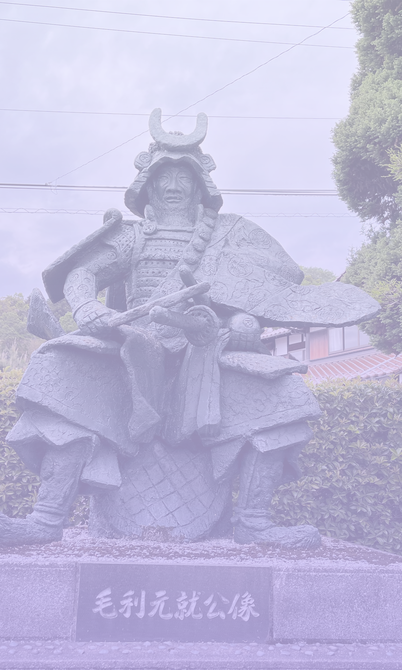
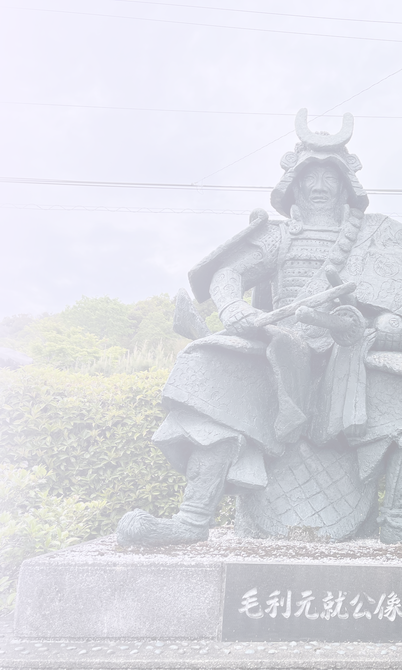
fix: カラーをソフトラベンダーに調整・ヒーロー画像を元就像に差し替え
- primary: #a495d6 / accent: #7a6cc0 (より薄く目に優しいパステルラベンダーに変更)
- グラデーション色も淡いラベンダー系に統一
- ヒーロー画像: 元就像(右下寄り)＋左上→右下への淡いラベンダーグラデーション
- PWAアイコン: ラベンダー→ティール(チームみらい色4:6混合)の対角グラデーション

diff --git a/web/src/app/globals.css b/web/src/app/globals.css
@@ -81,8 +81,8 @@
 
   /* Stance semantic colors */
   --color-stance-for-bg: #ecfcf1;
-  --color-stance-for-badge-start: #ede9fe;
-  --color-stance-for-badge-end: #f5f3ff;
+  --color-stance-for-badge-start: #f2f0fe;
+  --color-stance-for-badge-end: #f9f7ff;
   --color-stance-against: #c9272a;
   --color-stance-against-light: #d23c3f;
   --color-stance-against-bg: #fff1f1;
@@ -105,8 +105,8 @@
   --color-mirai-progress-fill: #a9e89d;
 
   /* Gradient endpoints */
-  --color-mirai-gradient-start: #c4b5f4;
-  --color-mirai-gradient-end: #ddd6fe;
+  --color-mirai-gradient-start: #dbd3f9;
+  --color-mirai-gradient-end: #ede9fd;
 }
 
 :root {
@@ -117,8 +117,8 @@
   --card-foreground: oklch(0.145 0 0);
   --popover: oklch(1 0 0);
   --popover-foreground: oklch(0.145 0 0);
-  --primary: #8272c0;
-  --primary-accent: #6455a4;
+  --primary: #a495d6;
+  --primary-accent: #7a6cc0;
   --primary-foreground: oklch(0.985 0 0);
   --secondary: oklch(0.97 0 0);
   --secondary-foreground: oklch(0.205 0 0);
@@ -240,7 +240,7 @@
   }
 
   .bg-mirai-light-gradient {
-    background-image: linear-gradient(to bottom, #ede9fe, #f5f3ff);
+    background-image: linear-gradient(to bottom, #f2f0fe, #f9f7ff);
   }
 
   .bg-mirai-white-fade {
